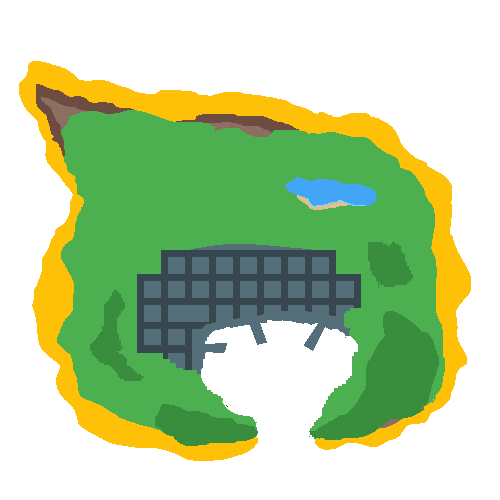
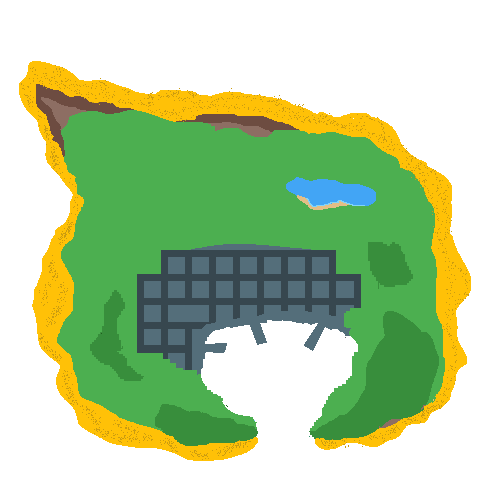
Modifying island images and tweaking building offsets

diff --git a/src/title.css b/src/title.css
@@ -22,8 +22,8 @@
     z-index:2;
     image-rendering: pixelated;
     animation: cloud-scroll 30s linear var(--spin-direction);
-    height: 5vw;
-    width: 5vw;
+    height: max(7vw, 7vh);
+    width: max( 7vh, 7vw);
     image-rendering: pixelated;
 }
 
@@ -31,9 +31,9 @@
     position: absolute;
     top: 55%;
     left: 0%;
-    height: 3%;
+    height: 5%;
     width: 200%;
-    background: url('../images/titleScreen/background/waves1.png');
+    background: url('../images/titleScreen/background/wavesv5.png');
     background-size: auto 100%;
     animation: wave-scroll var(--spin-time) linear infinite var(--spin-direction);
     z-index: 1;
@@ -46,7 +46,7 @@
     left: 0%;
     height: 58%;
     width: 200%;
-    background-color: rgb(0, 95, 223);
+    background-color: rgb(10, 89, 132);
 }
 
 /* --- Title Screen Styles --- */

diff --git a/src/titleScreen/islandTypes.js b/src/titleScreen/islandTypes.js
@@ -37,13 +37,13 @@ const ELEMENT_CONFIG = {
             name: "coitTower",
             src: ["images/titleScreen/buildings/coitTower.png"],
             size: ["12vw", "12vw"],
-            offset: ["-50%", "-95%"]
+            offset: ["-50%", "-100%"]
         },
         {
             name: 'transAmerica',
             src: ["images/titleScreen/buildings/transAmerica.png"],
             size: ["20vw", "20vw"],
-            offset: ["-50%", "-92%"]
+            offset: ["-50%", "-95%"]
         },
         {
             name: 'palaceArts',

diff --git a/src/titleScreen/island.js b/src/titleScreen/island.js
@@ -45,9 +45,6 @@ document.addEventListener('visibilitychange', () =>{
     
 });
 
-// Spawn a new background object every 3 seconds
-
-
 
 
 // FUNCTION DECLARATIONS
